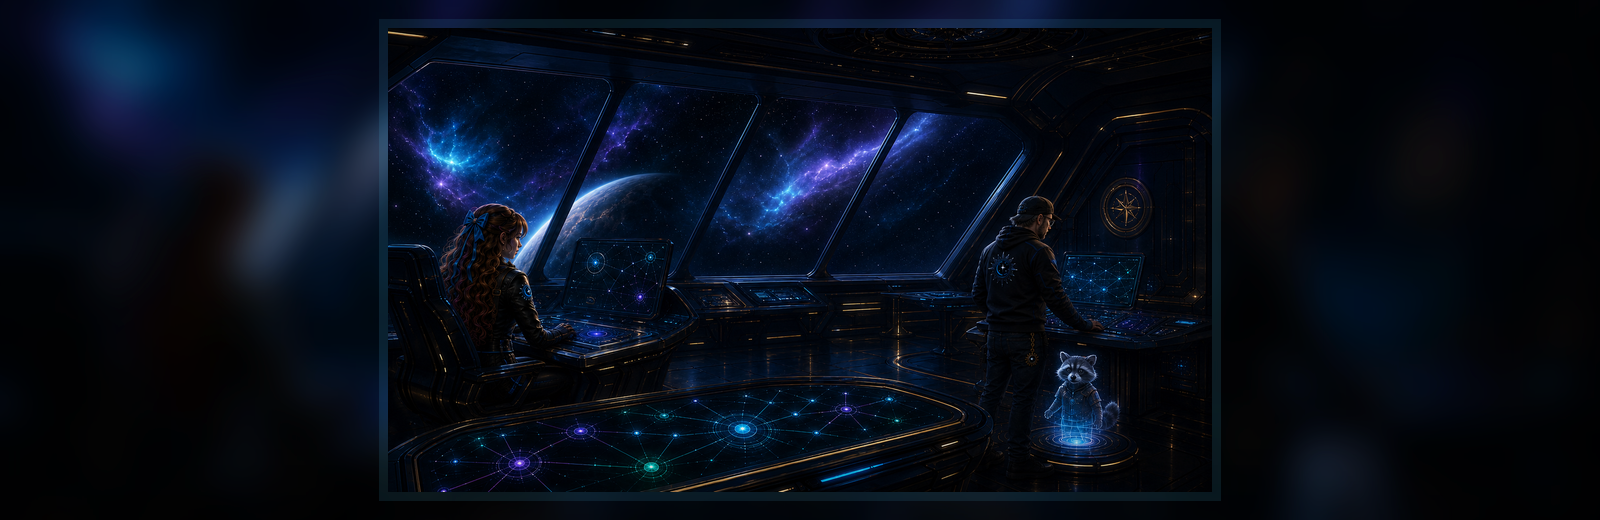
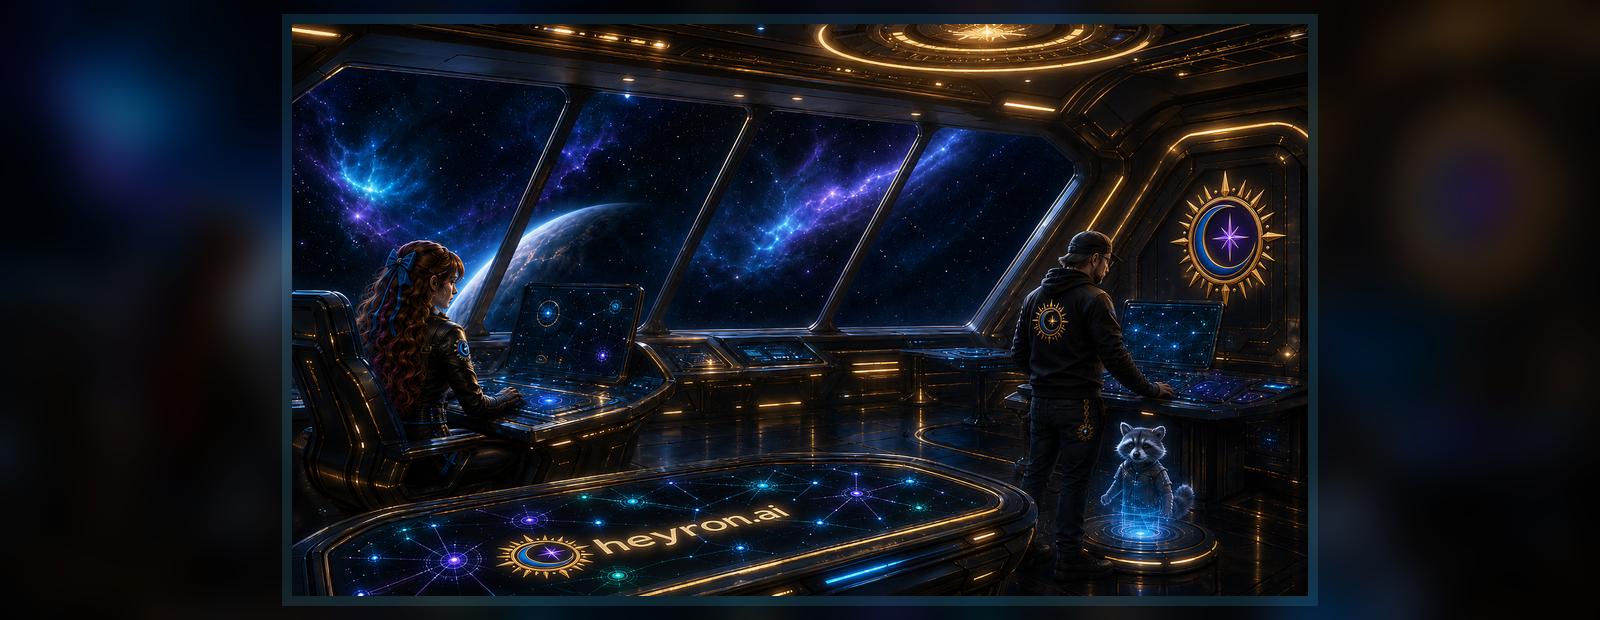
Update Mission Control image and add Socials Discord CTAs

diff --git a/index.html b/index.html
@@ -52,7 +52,7 @@ body {margin:0;background:var(--bg-page);color:var(--text-primary);font-family:'
 @keyframes draw{to{stroke-dashoffset:0;}}
 .status{display:block;margin-top:18px;position:relative;}
 .status-left{display:none;}
-.status-right{width:100%;position:relative;overflow:hidden;border-radius:26px;min-height:560px;border:1px solid rgba(125,225,255,.46);background:linear-gradient(180deg,rgba(7,9,12,.10),rgba(7,9,12,.34));box-shadow:0 -22px 60px rgba(7,9,12,.65),0 0 34px rgba(82,201,255,.24),0 0 80px rgba(34,211,238,.12),inset 0 1px 0 rgba(255,255,255,.07);}
+.status-right{width:100%;position:relative;overflow:hidden;border-radius:26px;min-height:600px;border:1px solid rgba(125,225,255,.46);background:linear-gradient(180deg,rgba(7,9,12,.10),rgba(7,9,12,.34));box-shadow:0 -22px 60px rgba(7,9,12,.65),0 0 34px rgba(82,201,255,.24),0 0 80px rgba(34,211,238,.12),inset 0 1px 0 rgba(255,255,255,.07);}
 .status-right::before{content:'';position:absolute;inset:-34px -18px -18px;background-image:url("assets/mission-control-status-square-wide.png");background-size:cover;background-position:center top;background-repeat:no-repeat;transform:scale(1.03);filter:saturate(1.08) brightness(.92);}
 .status-right::after{content:'';position:absolute;inset:0;background:linear-gradient(180deg,rgba(7,9,12,.88) 0%,rgba(7,9,12,.35) 16%,rgba(7,9,12,.04) 42%,rgba(7,9,12,.22) 100%),radial-gradient(circle at 50% 0%,rgba(82,201,255,.22),transparent 46%);pointer-events:none;}
 .quick-card{display:flex;flex-direction:column;align-items:center;justify-start;text-align:center;min-height:180px;padding-bottom:12px;}
@@ -75,7 +75,7 @@ body {margin:0;background:var(--bg-page);color:var(--text-primary);font-family:'
 @media(max-width:900px){.all-actions{grid-template-columns:repeat(3,minmax(0,1fr));}}
 @media(max-width:700px){.featured-actions,.all-actions{grid-template-columns:1fr;}.status-right{min-height:360px;border-radius:20px;}}
 .bridge-actions{display:flex;gap:12px;align-items:center;justify-content:center;flex-wrap:wrap;margin:4px 0 16px;}
-.bridge-button{display:inline-flex;align-items:center;justify-content:center;min-width:170px;padding:10px 16px;border-radius:999px;text-decoration:none;font-size:12px;font-weight:600;letter-spacing:.01em;border:1px solid rgba(125,225,255,.48);color:#D7F9FF;background:rgba(7,9,12,.48);backdrop-filter:blur(10px);box-shadow:0 0 22px rgba(82,201,255,.16),inset 0 1px 0 rgba(255,255,255,.07);}
+.bridge-button{display:inline-flex;align-items:center;justify-content:center;min-width:142px;padding:10px 14px;border-radius:999px;text-decoration:none;font-size:12px;font-weight:600;letter-spacing:.01em;border:1px solid rgba(125,225,255,.48);color:#D7F9FF;background:rgba(7,9,12,.48);backdrop-filter:blur(10px);box-shadow:0 0 22px rgba(82,201,255,.16),inset 0 1px 0 rgba(255,255,255,.07);}
 .bridge-button.primary{border-color:rgba(217,164,65,.58);color:#FFF4D6;background:linear-gradient(135deg,rgba(217,164,65,.20),rgba(7,9,12,.52));box-shadow:0 0 26px rgba(217,164,65,.16),0 0 22px rgba(82,201,255,.10),inset 0 1px 0 rgba(255,255,255,.08);}
 .bridge-button:hover{transform:translateY(-1px);}
 @media(max-width:700px){.bridge-actions{width:100%;}.bridge-button{width:100%;}}
@@ -169,6 +169,8 @@ body {margin:0;background:var(--bg-page);color:var(--text-primary);font-family:'
 <!-- EXTRA ACTIONS -->
 <div class="bridge-actions">
   <a href="https://stan.store/robbybuildsron" class="bridge-button">Merch</a>
+  <a href="https://www.thedenheyron.com/" class="bridge-button">Socials</a>
+  <a href="https://discord.gg/heyron" class="bridge-button">Discord</a>
   <a href="https://heyron.ai/chat" class="bridge-button primary">Speak with your AI cadet</a>
 </div>
 